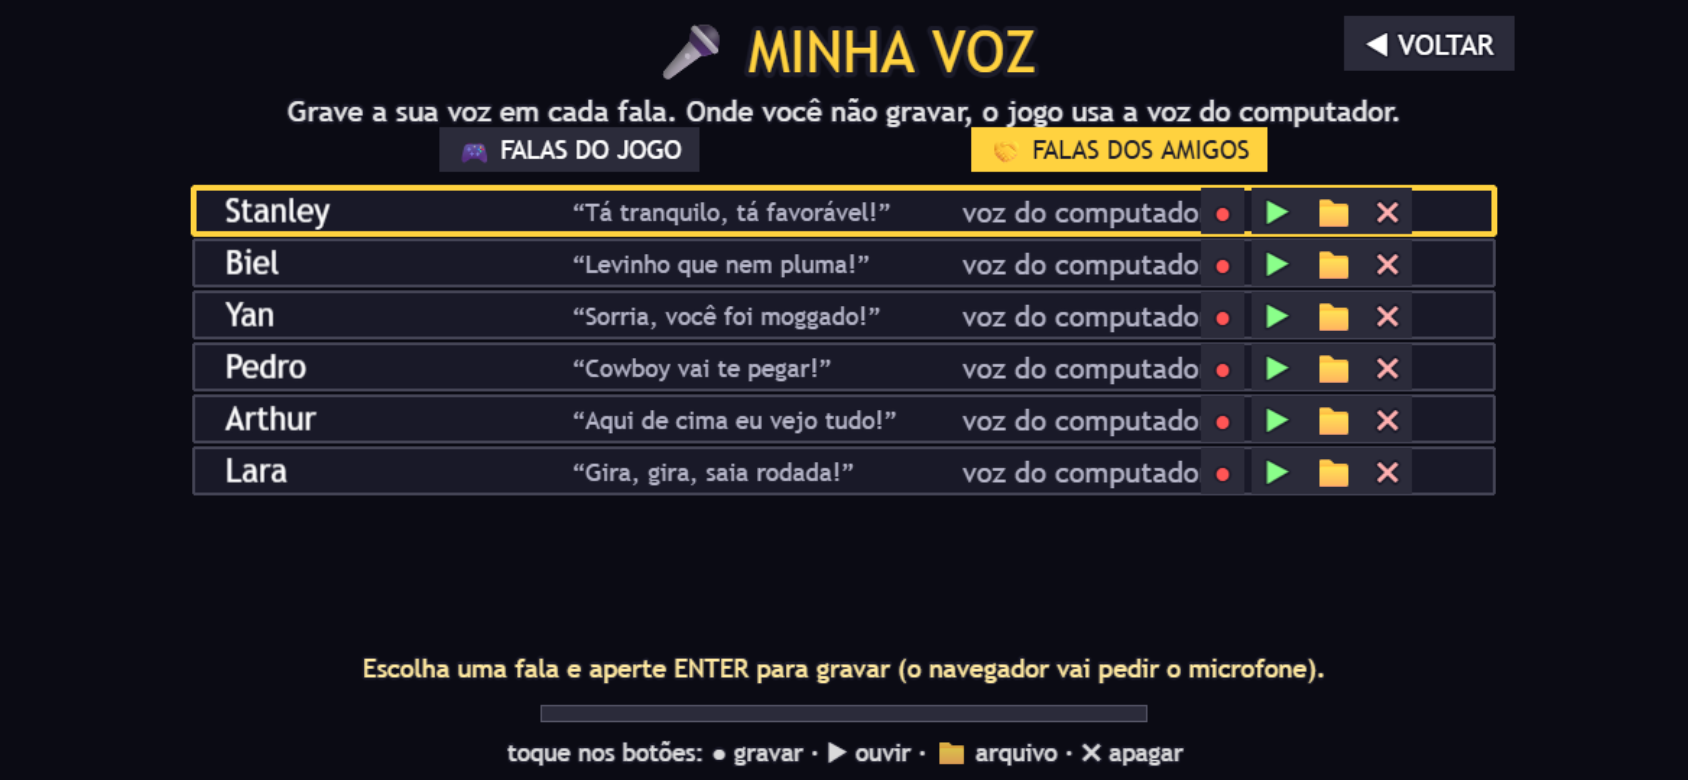
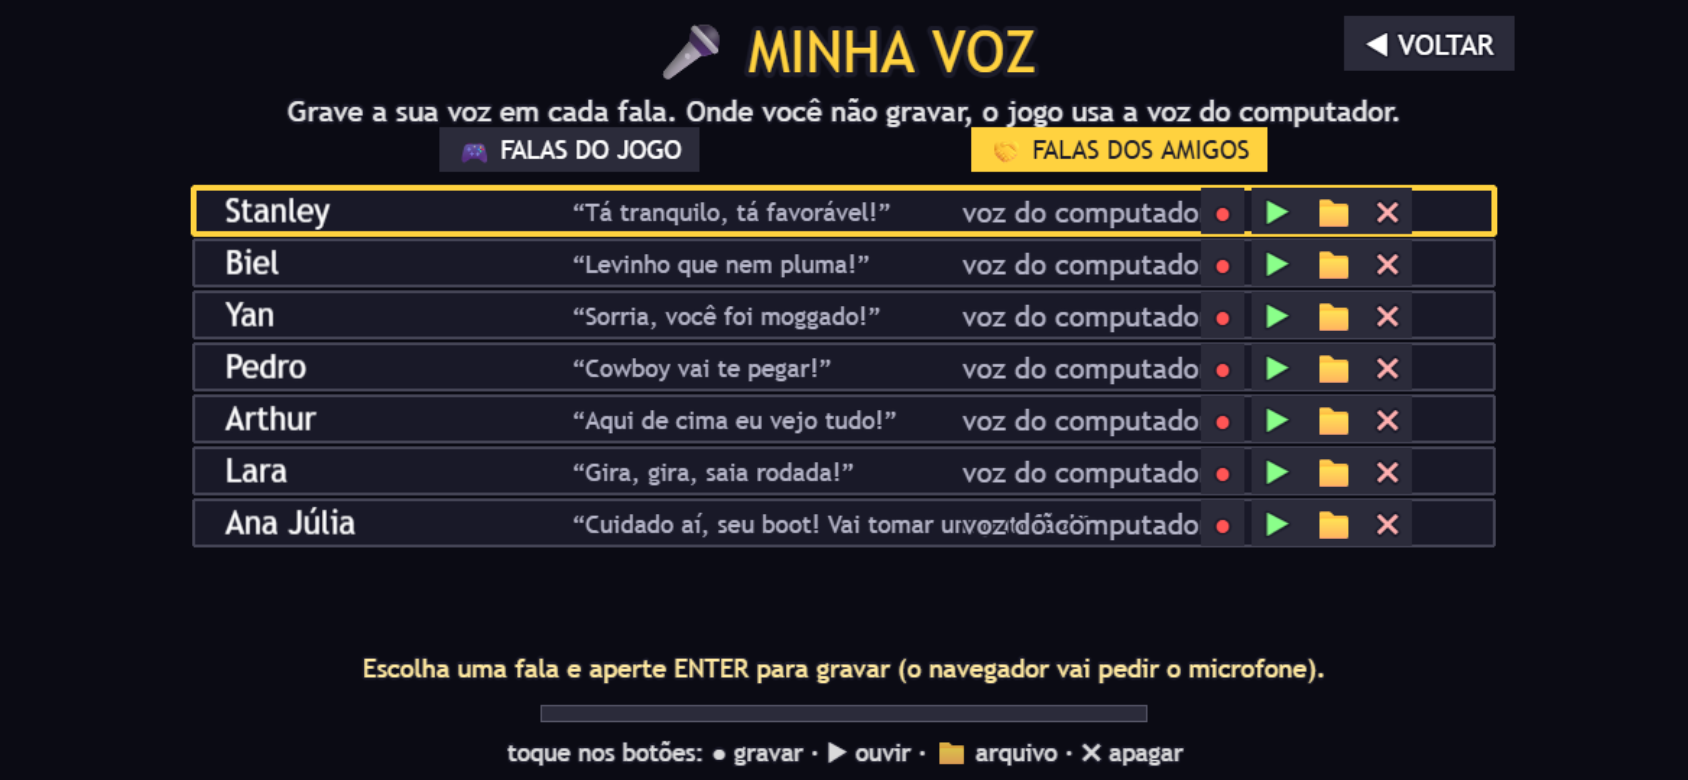
Amiga Ana Julia (estilo Lara Croft): coldre, tocha, gargantilha; poderes ativos Tiro (X) e Tocha (C)

Changed region(s): [[0.0924, 0.6154, 0.8934, 0.7077]]

diff --git a/src/scenes/Game.js b/src/scenes/Game.js
@@ -57,7 +57,8 @@ class GameScene extends Phaser.Scene {
       magnet: Math.max(fp.magnet || 0, sp.magnet), respawnInvuln: (fp.respawnInvuln || 0) + sp.respawnInvuln };
     this.heroK = heroScale();                          // boneco alto (Arthur): o desenho aumenta, a colisão não
     this.ability = OUTFITS[currentOutfit()].ability || null;   // poder ATIVO do amigo (ex.: a Saia Rodada da Lara), usado com X ou o botão 🌀
-    this.abilityCd = 0; this.abilityQueued = false; this.twirlUntil = 0;
+    this.ability2 = OUTFITS[currentOutfit()].ability2 || null;   // segundo poder (Ana Júlia: tocha), tecla C / botão 🔥
+    this.abilityCd = 0; this.abilityQueued = false; this.twirlUntil = 0; this.ability2Cd = 0; this.ability2Queued = false;
     // Consumíveis comprados valem para esta fase (no reinício da fase eles voltam, sem gastar de novo)
     this.buffs = data.buffs || Shop.takeBuffs();
     if (!data.buffs && this.buffs.includes('coxinha')) this.stats.lives++;
@@ -100,7 +101,7 @@ class GameScene extends Phaser.Scene {
     this.powerTime = 0;   // tempo restante do modo 67
     this.hasAura = false; // escudo de aura ativo
     this.invuln = 0;      // segundos piscando depois de perder a aura
-    this.touch ={ left: false, right: false, jump: false, jumpPressed: false, ability: false, abilityPressed: false };
+    this.touch ={ left: false, right: false, jump: false, jumpPressed: false, ability: false, abilityPressed: false, ability2: false, ability2Pressed: false };
   }
 
   create() {
@@ -377,6 +378,7 @@ class GameScene extends Phaser.Scene {
     this.sceneT = 0;                    // > 0: cena de poder rolando (jogo congelado)
     this.restartQueued = false;         // R: também pelo evento da tecla, pra batida rápida não se perder
     this.input.keyboard.on('keydown-R', (ev) => { if (!ev.repeat) this.restartQueued = true; });
+    this.input.keyboard.on('keydown-C', (ev) => { if (!ev.repeat) this.ability2Queued = true; });
     ['X', 'Z', 'K'].forEach((k) => this.input.keyboard.on(`keydown-${k}`, (ev) => { if (!ev.repeat) this.abilityQueued = true; }));
     this.jumpQueued = false;
     ['SPACE', 'UP', 'W'].forEach((k) => this.input.keyboard.on(`keydown-${k}`, (ev) => { if (!ev.repeat) this.jumpQueued = true; }));    this.createTouchControls();
@@ -517,7 +519,8 @@ class GameScene extends Phaser.Scene {
     if (this.totalText) this.totalText.setText(`TOTAL  ${formatScore(this.shownScore)}`);
     this.livesText.setText(`x${this.stats.lives}`);
     const status = [];
-    if (this.ability) status.push(this.abilityCd > 0 ? `🌀 saia ${this.abilityCd.toFixed(1)}s` : `🌀 saia pronta (${IS_TOUCH ? 'botão 🌀' : 'X'})`);
+    if (this.ability2) status.push(this.ability2Cd > 0 ? `🔥 tocha ${this.ability2Cd.toFixed(1)}s` : `🔥 tocha pronta (${IS_TOUCH ? 'botão 🔥' : 'C'})`);
+    if (this.ability) status.push(this.abilityCd > 0 ? `${this.abIcon()} ${this.ability.name.toLowerCase()} ${this.abilityCd.toFixed(1)}s` : `${this.abIcon()} ${this.ability.name.toLowerCase()} pronto (${IS_TOUCH ? 'botão ' + this.abIcon() : 'X'})`);
     if (this.hasAura) status.push('✦ escudo de aura');
     if (this.hasDoubleJump) status.push('👟 pulo duplo');
     if (this.magnetTime > 0) status.push(`🧲 ímã ${this.magnetTime.toFixed(0)}s`);
@@ -574,6 +577,14 @@ class GameScene extends Phaser.Scene {
       ab.text = this.add.text(ab.x, ab.y, '🌀', textStyle(34)).setOrigin(0.5).setScrollFactor(0).setDepth(201);
       this.abilityBtn = ab;
       this.touchBtns.push(ab);
+      if (this.ability.id === 'tiro') ab.text.setText('🔫');
+    }
+    if (this.ability2) {
+      const ab2 = { key: 'ability2', x: VIEW_W - 336, y: 466, r: 44 };
+      ab2.circle = this.add.circle(ab2.x, ab2.y, ab2.r, 0xffa23a, 0.3).setStrokeStyle(3, 0xffffff, 0.55).setScrollFactor(0).setDepth(200);
+      ab2.text = this.add.text(ab2.x, ab2.y, '🔥', textStyle(34)).setOrigin(0.5).setScrollFactor(0).setDepth(201);
+      this.ability2Btn = ab2;
+      this.touchBtns.push(ab2);
     }
     // o pulo é registrado no instante em que o dedo encosta (toque mais curto que um quadro não seria visto pelo polling)
     // e o joystick nasce onde o dedo encostou
@@ -581,6 +592,7 @@ class GameScene extends Phaser.Scene {
       if (!this.touchBtns) return;
       if (Phaser.Math.Distance.Between(ptr.x, ptr.y, jb.x, jb.y) <= jb.r * 1.3) { this.touch.jumpPressed = true; return; }
       if (this.abilityBtn && Phaser.Math.Distance.Between(ptr.x, ptr.y, this.abilityBtn.x, this.abilityBtn.y) <= this.abilityBtn.r * 1.3) { this.touch.abilityPressed = true; return; }
+      if (this.ability2Btn && Phaser.Math.Distance.Between(ptr.x, ptr.y, this.ability2Btn.x, this.ability2Btn.y) <= this.ability2Btn.r * 1.3) { this.touch.ability2Pressed = true; return; }
       const j = this.joy;
       if (j.id === null && ptr.x < j.zoneX && ptr.y > 140) {
         j.id = ptr.id;
@@ -606,11 +618,12 @@ class GameScene extends Phaser.Scene {
 
   pollTouch() {
     const j = this.joy;
-    let jump = false, left = false, right = false, held = null, ability = false;
+    let jump = false, left = false, right = false, held = null, ability = false, ability2 = false;
     for (const ptr of this.input.manager.pointers) {
       if (!ptr.isDown) continue;
       const b = this.touchBtns[0];
       if (this.abilityBtn && Phaser.Math.Distance.Between(ptr.x, ptr.y, this.abilityBtn.x, this.abilityBtn.y) <= this.abilityBtn.r * 1.3 && ptr.id !== j.id) ability = true;
+      if (this.ability2Btn && Phaser.Math.Distance.Between(ptr.x, ptr.y, this.ability2Btn.x, this.ability2Btn.y) <= this.ability2Btn.r * 1.3 && ptr.id !== j.id) ability2 = true;
       if (Phaser.Math.Distance.Between(ptr.x, ptr.y, b.x, b.y) <= b.r * 1.3 && ptr.id !== j.id) jump = true;
       if (ptr.id === j.id) held = ptr;
     }
@@ -630,6 +643,11 @@ class GameScene extends Phaser.Scene {
     if (jump && !this.touch.jump) this.touch.jumpPressed = true;     // acabou de apertar o pulo
     this.touch.left = left; this.touch.right = right; this.touch.jump = jump;
     this.touchBtns[0].circle.setFillStyle(0xffffff, jump ? 0.42 : 0.2);
+    if (this.ability2Btn) {
+      if (ability2 && !this.touch.ability2) this.touch.ability2Pressed = true;
+      this.touch.ability2 = ability2;
+      this.ability2Btn.circle.setFillStyle(0xffa23a, this.ability2Cd > 0 ? 0.12 : (ability2 ? 0.6 : 0.3));
+    }
     if (this.abilityBtn) {
       if (ability && !this.touch.ability) this.touch.abilityPressed = true;
       this.touch.ability = ability;
@@ -682,6 +700,9 @@ class GameScene extends Phaser.Scene {
     this.abilityCd = Math.max(0, this.abilityCd - dt);
     if (this.ability && (this.abilityQueued || this.touch.abilityPressed) && this.abilityCd <= 0) this.useAbility();
     this.abilityQueued = false; this.touch.abilityPressed = false;
+    this.ability2Cd = Math.max(0, this.ability2Cd - dt);
+    if (this.ability2 && (this.ability2Queued || this.touch.ability2Pressed) && this.ability2Cd <= 0) this.useAbility2();
+    this.ability2Queued = false; this.touch.ability2Pressed = false;
     const jumpPressed = this.jumpQueued || this.touch.jumpPressed;
     this.jumpQueued = false;
     this.touch.jumpPressed = false;
@@ -1135,9 +1156,36 @@ class GameScene extends Phaser.Scene {
   }
 
   // ---- Poder ativo: Saia Rodada da Lara. Gira e lança uma rajada (a saia) que acerta o inimigo de longe ----
+  abIcon() { return this.ability.id === 'tiro' ? '🔫' : '🌀'; }
+
+  // Ana Júlia: tiro reto da pistola
+  fireTiro() {
+    const dir = this.facing >= 0 ? 1 : -1, pb = this.player.body;
+    const s = this.skirtShots.create(pb.center.x + dir * 20, pb.center.y + 2, 'bala');
+    s.kind = 'tiro'; s.setFlipX(dir < 0); s.body.setSize(14, 6); s.setVelocityX(dir * 680); s.setDepth(8);
+    this.time.delayedCall(700, () => s.active && s.destroy());
+    this.fxParty.explode(5, pb.center.x + dir * 22, pb.center.y + 2);
+    Sfx.tone(180, 0.09, { type: 'square', to: 70, vol: 0.09 });
+    Sfx.tone(1200, 0.05, { type: 'sawtooth', to: 300, vol: 0.04 });
+  }
+
+  // Ana Júlia: arremessa a tocha em arco
+  useAbility2() {
+    if (this.dead || this.finished || this.sceneT > 0) return;
+    this.ability2Cd = this.ability2.cooldown;
+    const dir = this.facing >= 0 ? 1 : -1, pb = this.player.body;
+    const s = this.skirtShots.create(pb.center.x + dir * 16, pb.center.y - 14, 'tocha_arremesso');
+    s.kind = 'tocha'; s.body.setCircle(12, 3, 3); s.body.setAllowGravity(true);
+    s.setVelocity(dir * 430 + pb.velocity.x * 0.3, -400); s.setAngularVelocity(dir * 700); s.setDepth(8);
+    this.time.delayedCall(1500, () => s.active && s.destroy());
+    this.fxParty.explode(8, s.x, s.y);
+    Sfx.tone(300, 0.25, { type: 'sawtooth', to: 700, vol: 0.05 });
+  }
+
   useAbility() {
     if (this.dead || this.finished || this.sceneT > 0) return;
     this.abilityCd = this.ability.cooldown;
+    if (this.ability.id === 'tiro') return this.fireTiro();
     const dir = this.facing >= 0 ? 1 : -1;
     const pb = this.player.body;
     const s = this.skirtShots.create(pb.center.x + dir * 18, pb.center.y - 2, 'saia_rajada');
@@ -1162,7 +1210,7 @@ class GameScene extends Phaser.Scene {
       e.hp--; e.setTintFill(0xffffff); this.time.delayedCall(120, () => e.active && e.clearTint());
       this.speech(e, 'Ai! Mais uma!');
     } else this.defeatEnemy(e, true);
-    Achievements.unlock('saia');
+    Achievements.unlock(shot.kind ? 'tocha' : 'saia');
   }
 
   spawnEnemy(key, cx, bottom, cfg) {

diff --git a/src/textures.js b/src/textures.js
@@ -618,6 +618,21 @@ function generateTextures(scene) {
     g.fillStyle(0xff7a9a); g.fillRect(8, 16, 2, 2);
     g.lineStyle(1, 0x6b3a1f); g.lineBetween(14, 8, 21, 2); g.lineBetween(0, 17, 5, 17);
   });
+  // Bala da pistola da Ana Júlia
+  make('bala', 14, 6, (g) => {
+    g.fillStyle(0xfff3b0, 0.5); g.fillRect(0, 2, 9, 2);
+    g.fillStyle(0xffd23f); g.fillRoundedRect(6, 1, 8, 4, 2);
+    g.fillStyle(0xffffff); g.fillRect(10, 2, 3, 1);
+  });
+  // Tocha arremessada
+  make('tocha_arremesso', 30, 30, (g) => {
+    g.fillStyle(0x6a4524); g.fillRect(13, 14, 4, 15);
+    g.fillStyle(0x4a2f16); g.fillRect(13, 22, 4, 2);
+    g.fillStyle(0xe8541a); g.fillCircle(15, 9, 8);
+    g.fillStyle(0xff9a1a); g.fillCircle(15, 8, 6);
+    g.fillStyle(0xffd23f); g.fillCircle(15, 8, 3.8);
+    g.fillStyle(0xfff6c0); g.fillCircle(15, 8, 1.8);
+  });
   // Rajada da saia (poder da Lara): a saia vista de cima, girando, com babadinhos
   make('saia_rajada', 28, 28, (g) => {
     g.fillStyle(0xe0314b); g.fillCircle(14, 14, 13);
@@ -856,7 +871,7 @@ const OUTLINE_PREFIXES = ['player_', 'neymar', 'galvao', 'caze', 'ednaldo', 'lul
   'capivara', 'tralalero', 'tungtung', 'slime', 'crab', 'pombo', 'bombardiro', 'patapim', 'bananini', 'lirili',
   'ballerina', 'coin', 'coxinha', 'tenis', 'ima', 'heart', 'gol_ball', 'picanha', 'ovo', 'bomba', 'pw_olhar', 'pw_anjo',
   'goal', 'cp_', 'mola', 'chinelo', 'plataforma', 'cacto', 'skibidi', 'doge', 'nyan', 'gigachad', 'nazare', 'gota', 'churros',
-  'rato', 'troll', 'pilili', 'cappuccino', 'trippi', 'paraiba_moto', 'dardo', 'eva', 'giz', 'errado', 'saia_rajada'];
+  'rato', 'troll', 'pilili', 'cappuccino', 'trippi', 'paraiba_moto', 'dardo', 'eva', 'giz', 'errado', 'saia_rajada', 'bala', 'tocha_arremesso'];
 
 function outlineSprites(scene) {
   for (const key of scene.textures.getTextureKeys()) {
@@ -1019,6 +1034,13 @@ function drawPlayer(g, o, pose = 'idle') {
     if (o.sideStripe) { g.fillStyle(o.sideStripe); g.fillRect(5, 26, 1, 5); g.fillRect(20, 26, 1, 5); }
   }
 
+  if (o.holster) {                                     // cinto + coldre na coxa com a pistola
+    g.fillStyle(0x5a3a1e); g.fillRect(4 + sl * 2, 24, 18 - sl * 4, 2);
+    g.fillStyle(0xfff3b0); g.fillRect(12, 24, 3, 2);
+    g.fillStyle(0x6a4524); g.fillRect(17, 25, 4, 7); g.fillStyle(0x2b2b30); g.fillRect(18, 24, 3, 3);       // coldre + cabo da arma
+    g.fillStyle(0x4a2f16); g.fillRect(17, 29, 4, 1);
+  }
+
   // blusa / camisa / paletó
   g.fillStyle(c.shirt); g.fillRoundedRect(4 + sl * 2, 16, 18 - sl * 4, 10, 3);
   g.fillStyle(c.shirtDark); g.fillRect(4 + sl * 2, 24, 18 - sl * 4, 2);
@@ -1057,6 +1079,7 @@ function drawPlayer(g, o, pose = 'idle') {
     if (o.badge.letter) LETTERS[o.badge.letter].forEach((row, r) => [...row].forEach((ch, k) => { if (ch === 'X') g.fillRect(15 + k, 19 + r, 1, 1); }));
     else { g.fillRect(15, 20, 3, 3); }
   }
+  if (o.bandolier) { g.fillStyle(o.bandolier); for (let i = 0; i < 6; i++) g.fillRect(5 + i * 2, 17 + i, 3, 2); }   // tira de munição em diagonal
   if (o.belt) { g.fillStyle(o.belt); g.fillRect(4, 24, 18, 2); g.fillStyle(0xfff3b0); g.fillRect(12, 24, 3, 2); }
 
   // braço da frente
@@ -1064,6 +1087,13 @@ function drawPlayer(g, o, pose = 'idle') {
   g.fillStyle(lower); g.fillRect(19 - sl * 2, 21 + P.arm, 5 - sl, 3);
   if (o.trim) { g.fillStyle(o.trim); g.fillRect(19 - sl * 2, 20 + P.arm, 5 - sl, 1); }       // barrinha na ponta da manga
   g.fillStyle(c.skin); g.fillRect(20 - sl * 2, 24 + P.arm, 4 - sl, 3);
+  if (o.torch) {                                       // tocha acesa na mão da frente
+    const tx = 23 - sl * 2, ty = 20 + P.arm;
+    g.fillStyle(0x6a4524); g.fillRect(tx, ty - 2, 2, 9);
+    g.fillStyle(0xff7a1a); g.fillCircle(tx + 1, ty - 4, 3.5);
+    g.fillStyle(0xffd23f); g.fillCircle(tx + 1, ty - 4, 2);
+    g.fillStyle(0xfff6c0); g.fillCircle(tx + 1, ty - 3.5, 0.9);
+  }
   if (o.bracelet) { g.fillStyle(o.bracelet); g.fillRect(19 - sl * 2, 23 + P.arm, 5 - sl, 2); }     // pulseira no pulso
 
   // cabeça
@@ -1138,6 +1168,7 @@ function drawPlayer(g, o, pose = 'idle') {
     g.fillStyle(c.skinDark); g.fillRect(5, 3, 18, 1);
     g.fillStyle(0xffffff, 0.35); g.fillRect(9, 3, 6, 1);
   }
+  if (o.choker) { g.fillStyle(o.choker); g.fillRect(9, 16, 10, 1); }   // gargantilha
   if (o.hairFlower) {                                  // flor no cabelo (carimbó)
     g.fillStyle(o.hairFlower); [[12, -1], [10, 1], [14, 1], [12, 3], [11, 0]].forEach(([x, y]) => g.fillCircle(x, y, 2));
     g.fillStyle(0xffd23f); g.fillCircle(12, 1, 1.2);

diff --git a/src/config.js b/src/config.js
@@ -263,6 +263,12 @@ const FRIENDS = {
     hairStyle: 'coque', hairFlower: 0xe0314b, shoes: 'chinelo', collar: 0xf0e6c8,
     skirt: { color: 0xe0314b, ribbon1: 0xffd23f, ribbon2: 0x2ecc71, hem: 0xffd23f },
   },
+  anajulia: {
+    name: 'Ana Júlia', who: 'Ana Júlia', desc: 'Exploradora estilo Lara Croft: cabelo longo, gargantilha, coldre, tocha acesa e pistola. Cuidado aí, seu boot. Senão você vai tomar um putufão.',
+    colors: { hair: 0xa87a4e, hairDark: 0x7d5632, hairLight: 0xc9a074, skin: 0xf0cbae, skinDark: 0xd3a888,
+      shirt: 0x2f9e8a, shirtDark: 0x1f7a69, shorts: 0x7a5230, shortsDark: 0x573a20 },
+    hairStyle: 'longo', choker: 0x1b1b20, holster: true, bandolier: 0x5a3a1e, torch: true, shoes: 0x3a2a1a,
+  },
 };
 // Frase (dublável na tela Minha voz) e poder de cada amigo. perk: speed (corre mais) · jump (pula mais) · coin (moeda vale mais) · magnet (puxa moedas, em pixels)
 const FRIEND_EXTRA = {
@@ -271,6 +277,9 @@ const FRIEND_EXTRA = {
   yan:     { phrase: 'Sorria, você foi moggado!', pitch: 0.8, perk: { name: 'Sorrisão', desc: 'moedas valem 50% mais', coin: 1.5 } },
   pedro:   { phrase: 'Cowboy vai te pegar!', pitch: 1.0, perk: { name: 'Galope', desc: 'corre 10% mais rápido', speed: 1.1 } },
   lara:    { phrase: 'Gira, gira, saia rodada!', pitch: 1.35, ability: { id: 'saia', name: 'Saia Rodada', desc: 'X ou 🌀: rajada da saia que acerta de longe', cooldown: 1.3 } },
+  anajulia: { phrase: 'Cuidado aí, seu boot! Vai tomar um putufão!', pitch: 1.25,
+    ability: { id: 'tiro', name: 'Tiro', desc: 'X: tiro reto e rápido', cooldown: 0.45 },
+    ability2: { id: 'tocha', name: 'Tocha', desc: 'C: tocha acesa em arco', cooldown: 1.5 } },
   arthur:  { phrase: 'Aqui de cima eu vejo tudo!', pitch: 0.85, perk: { name: 'Piadista', desc: '+1 s de proteção ao renascer (todo mundo ri)', respawnInvuln: 1 } },
 };
 Object.keys(FRIENDS).forEach((k) => { OUTFITS[k] = { ...FRIENDS[k], ...(FRIEND_EXTRA[k] || {}), friend: true }; });

diff --git a/src/scenes/Wardrobe.js b/src/scenes/Wardrobe.js
@@ -113,7 +113,7 @@ class WardrobeScene extends Phaser.Scene {
     this.nameText.setText(o.name);
     this.descText.setText(o.desc);
     const locked = !Shop.ownsOutfit(key);
-    this.perkText.setText(locked ? `🔒 À venda na Moda Cotia (Centro de Cotia): 🪙 ${o.shop.price}` : ((o.perk || o.ability) ? `${o.ability ? '🌀' : '⚡'} ${(o.perk || o.ability).name}: ${(o.perk || o.ability).desc}` : ''));
+    this.perkText.setText(locked ? `🔒 À venda na Moda Cotia (Centro de Cotia): 🪙 ${o.shop.price}` : (o.ability2 ? `🔫 ${o.ability.desc}\n🔥 ${o.ability2.desc}` : (o.perk || o.ability) ? `${o.ability ? '🌀' : '⚡'} ${(o.perk || o.ability).name}: ${(o.perk || o.ability).desc}` : ''));
     this.wearBtn.setText(locked ? '🔒 BLOQUEADA' : (key === this.worn ? '✔ VESTINDO' : (o.friend ? 'JOGAR COM ELE' : 'VESTIR')));
     this.cards.forEach((c, k) => {
       c.bg.setStrokeStyle(k === i ? 4 : 2, k === i ? 0xffd23f : 0x444455);

diff --git a/src/achievements.js b/src/achievements.js
@@ -67,6 +67,7 @@ const ACHIEVEMENTS = [
   { id: 'amigo_pisado', icon: '🤝', name: 'Só de Brincadeira',    desc: 'Pisar num amigo (ele aguenta)' },
   { id: 'turma_toda',  icon: '🧑🤝🧑', name: 'A Turma Toda',          desc: 'Pisar em todos os amigos (de brincadeira)' },
   { id: 'saia',        icon: '🌀', name: 'Gira, Gira!',           desc: 'Derrubar um inimigo de longe com a rajada da saia da Lara' },
+  { id: 'tocha',       icon: '🔥', name: 'Tomb Raider de Cotia',  desc: 'Derrubar um inimigo com o tiro ou a tocha da Ana Júlia' },
   { id: 'escola_entrou', icon: '🏫', name: 'Aluno Pontual',        desc: 'Entrar na Escola Zacarias' },
   { id: 'terceiro_d',  icon: '🚪', name: 'Terceiro D',            desc: 'Chegar na sala do 3º D, no fim do corredor' },
   { id: 'eva',         icon: '📝', name: 'Nota Dez',              desc: 'Derrotar a professora Eva na sala de aula' },

diff --git a/src/gamepad.js b/src/gamepad.js
@@ -18,9 +18,10 @@
     left: ['ArrowLeft', 'ArrowLeft', 37],
     right: ['ArrowRight', 'ArrowRight', 39],
     power: ['x', 'KeyX', 88],
+    power2: ['c', 'KeyC', 67],
   };
   // número do botão no padrão "standard" dos navegadores → tecla
-  const BUTTONS = { 0: 'space', 2: 'space', 1: 'back', 3: 'power', 5: 'power', 9: 'esc', 12: 'up', 13: 'down', 14: 'left', 15: 'right' };
+  const BUTTONS = { 0: 'space', 2: 'space', 1: 'back', 3: 'power', 5: 'power', 4: 'power2', 7: 'power2', 9: 'esc', 12: 'up', 13: 'down', 14: 'left', 15: 'right' };
 
   const down = {};      // fonte (botão/eixo) → apertado?
   const keyCount = {};  // tecla → quantas fontes estão segurando

diff --git a/README.md b/README.md
@@ -76,7 +76,7 @@ música da intro, de vitória e de game over. As notas ficam em `SONGS` e dá pr
 
 ### Conquistas
 
-**68 conquistas**, como *Fugiu da Chinelada*, *Mogador Serial*, *Haja Coração!*, *Foi Pênalti?*, *Sigma do Combo*,
+**69 conquistas**, como *Fugiu da Chinelada*, *Mogador Serial*, *Haja Coração!*, *Foi Pênalti?*, *Sigma do Combo*,
 *Atropelamento 67*, *A Andreia Te Achou* e *Modo Andreia* (zerar no Difícil). Aparece um aviso na tela quando desbloqueia
 e dá pra ver todas no menu. A lista fica em `src/achievements.js`.
 
@@ -277,7 +277,7 @@ em `SHOPS` e `Shop`, no `src/shop.js`. Conquistas novas: *Turista em Cotia*, *Cl
 ### Amigos (personagens jogáveis)
 
 No guarda-roupa (**ROUPA** no menu) há duas abas: **ROUPAS** (os 10 looks do Brunucho) e **AMIGOS**, com personagens jogáveis feitos a partir
-de fotos de amigos, com o nome aparecendo em cima deles. O Brunucho continua sendo o protagonista da história. Amigos atuais: **Stanley**, **Biel** (Gabriel Silva, corpo magrinho) , **Yan**, **Pedro** (de cowboy), **Arthur** (alto, de fone no ouvido e pulseira vermelha) e **Lara** (a "irmã" do Brunucho: cabelo preso num coque, flor no cabelo e saia rodada de carimbó).
+de fotos de amigos, com o nome aparecendo em cima deles. O Brunucho continua sendo o protagonista da história. Amigos atuais: **Stanley**, **Biel** (Gabriel Silva, corpo magrinho) , **Yan**, **Pedro** (de cowboy), **Arthur** (alto, de fone no ouvido e pulseira vermelha) **Lara** (a "irmã" do Brunucho: cabelo preso num coque, flor no cabelo e saia rodada de carimbó) e **Ana Júlia** (exploradora estilo Lara Croft, com coldre, tocha e pistola).
 Pra adicionar um amigo, crie uma entrada em `FRIENDS`, no `src/config.js` (cores, `hairStyle`, `beard`, `glasses`, `cap`, `thickBrows`, `slim`, `pants`, `smile`, `hoodie`, `cowboy`, `plaid`, `earbuds`, `bracelet`, `chestPrint`, `tall` (boneco mais alto)...).
 As fotos **não** vão pro repositório, só o desenho pixelado.
 
@@ -291,6 +291,11 @@ Cada amigo tem um **poder** (aparece no guarda-roupa e no começo da fase) e uma
 | Pedro | **Galope**: corre 10% mais rápido | "Cowboy vai te pegar!" |
 | Arthur | **Piadista**: +1 s de proteção ao renascer (todo mundo ri) | "Aqui de cima eu vejo tudo!" |
 | Lara | **Saia Rodada** (poder ativo, veja abaixo) | "Gira, gira, saia rodada!" |
+
+| Ana Júlia | **Tiro** (X) e **Tocha** (C), poderes ativos | "Cuidado aí, seu boot! Vai tomar um putufão!" |
+
+**Poderes ativos da Ana Júlia:** **X** (botão 🔫 no celular) dá um **tiro** reto e rápido de pistola (recarga 0,45 s); **C** (botão 🔥) arremessa uma **tocha acesa em arco** (recarga 1,5 s).
+Ambos derrubam o inimigo de longe (os duros perdem 1 de vida; chefões só levam um susto). No controle: Y/△ = tiro, LB/L1 = tocha. Conquista *Tomb Raider de Cotia*.
 
 **Poder ativo da Lara — Saia Rodada:** aperte **X** (ou **Z/K**; no celular o botão **🌀** ao lado do pulo; no controle o botão Y/△ ou R1/RB).
 Ela gira e lança uma **rajada da saia** (vermelha, com fitas amarela e verde) que voa uns 350 px e derruba o inimigo de longe, além de apagar os tiros
